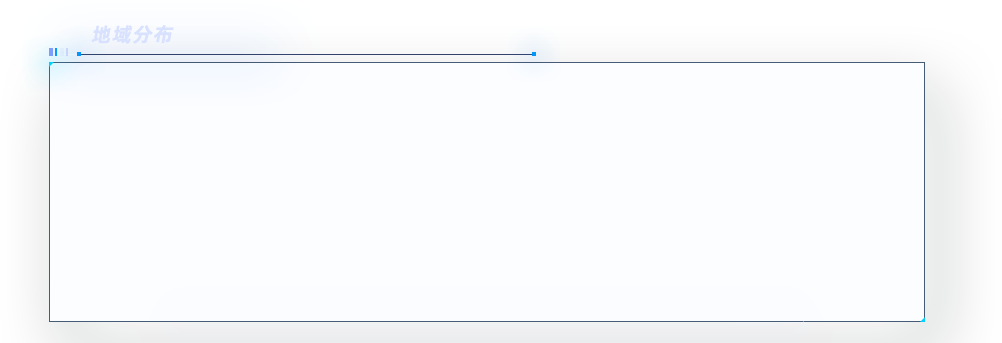
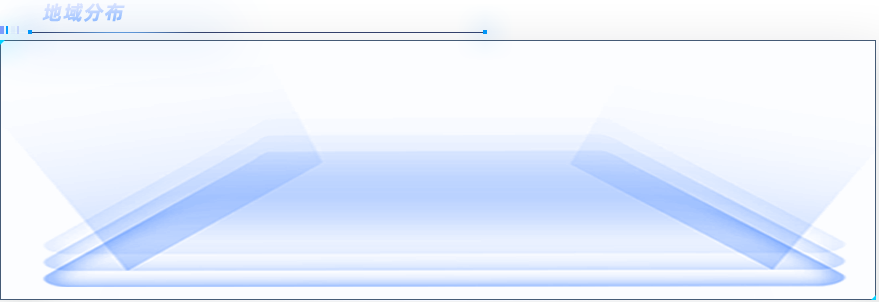
交付经理集成完成，地域分布 部分完成

Changed region(s): [[0.0307, 0.447, 0.9829, 0.9536], [0.0, 0.0, 1.0, 0.2086], [0.0, 0.9834, 1.0, 1.0]]

diff --git a/src/views/app/large-screen/components/largeScreen.vue b/src/views/app/large-screen/components/largeScreen.vue
@@ -22,10 +22,9 @@
         <!-- 中间地图 -->
         <el-col :xs="12" :sm="12" :md="12" :lg="12" :xl="12">
           <div class="grid-content bg-purple-light">
-            <!-- <china></china> -->
+            <china></china>
           </div>
-          <div class="grid-content bg-purple-chart">
-            <span>图表</span>
+          <div class="grid-content bg-purple-chart region">
           </div>
         </el-col>
         <!-- 右侧内容 -->
@@ -35,13 +34,12 @@
             <age-com class="ageCount" :aName="workName" :aValue="workValue" ref="work"></age-com>
           </div>
           <!-- 右侧中  客户分布-->
-          <div class="grid-content guestDepartment bg-purple">
-            <radarchart> </radarchart>
+          <div class="grid-content bg-purple client">
+            <radarchart class="ageCount"></radarchart>
           </div>
-          <!-- 右侧下 -->
-          <div class="grid-content bg-purple cakeBackground">
-            <!-- 3D饼图 -->
-            <delivery-manager></delivery-manager>
+          <!-- 右侧下 交付经理-->
+          <div class="grid-content bg-purple deliver">
+            <delivery-manager class="ageCount"></delivery-manager>
           </div>
         </el-col>
       </el-row>
@@ -106,8 +104,8 @@ export default {
             let name = String(item.birthdayYear).substr(2, 1) + "0后";
             dataArr[name] = dataArr[name] ? dataArr[name] + item.num : item.num;
           });
-          this.ageName=Object.keys(dataArr).reverse()
-          this.ageValue=Object.values(dataArr).reverse()
+          this.ageName = Object.keys(dataArr).reverse();
+          this.ageValue = Object.values(dataArr).reverse();
           // this.ageValue=this.ageFirst(Object.values(dataArr)).reverse()
           this.$nextTick(() => {
         this.$refs.age.start(); // 调用 ECharts 组件的初始化方法
@@ -118,25 +116,32 @@ export default {
     workAge(data){
       employeeSeniority(data).then(res=>{
         if (res && res.code && res.code === "00000") {
-          let workData={'1年以下':0,'1-2年':0,'2-3年':0,'3-4年':0,'4-5年':0,'5年以上':0}
-          res.data.forEach(item=>{
-            if(item.seniority==0){
-              workData['1年以下']+=item.num
+          let workData = {
+            "1年以下": 0,
+            "1-2年": 0,
+            "2-3年": 0,
+            "3-4年": 0,
+            "4-5年": 0,
+            "5年以上": 0,
+          };
+          res.data.forEach((item) => {
+            if (item.seniority == 0) {
+              workData["1年以下"] += item.num;
             }
-            if(item.seniority==1){
-              workData['1-2年']+=item.num
+            if (item.seniority == 1) {
+              workData["1-2年"] += item.num;
             }
-            if(item.seniority==2){
-              workData['2-3年']+=item.num
+            if (item.seniority == 2) {
+              workData["2-3年"] += item.num;
             }
-            if(item.seniority==3){
-              workData['3-4年']+=item.num
+            if (item.seniority == 3) {
+              workData["3-4年"] += item.num;
             }
-            if(item.seniority==4){
-              workData['4-5年']+=item.num
+            if (item.seniority == 4) {
+              workData["4-5年"] += item.num;
             }
-            if(item.seniority>=5){
-              workData['5年以上']+=item.num
+            if (item.seniority >= 5) {
+              workData["5年以上"] += item.num;
             }
 
           })
@@ -174,8 +179,6 @@ export default {
   },
 };
 </script>
-<style lang='less'>
-</style>
 <style lang='less' scoped>
 body,
 html {
@@ -188,17 +191,6 @@ html {
   position:absolute .el-col {
     border-radius: 4px;
   }
-  .bg-purple-dark {
-    // background: #99a9bf;
-  }
-  .bg-purple {
-    // background: #d3dce6;
-  }
-  .bg-purple-light {
-    // background: #e5e9f2;
-    // position: relative;
-    // top: -30px;
-  }
   .grid-content {
     border-radius: 4px;
     min-height: 36px;
@@ -209,7 +201,7 @@ html {
   // 两侧
   .bg-purple {
     width: 100%;
-    height: 28vh;
+    height: 270px;
     // // background-color: rgba(224, 236, 211, 0.2);
     margin: 5px 0;
   }
@@ -221,8 +213,9 @@ html {
   .bg-purple-chart {
     margin-top: 6px;
     width: 100%;
-    height: 25vh;
+    height: 255px;
     // background-color: rgba(224, 236, 211, 0.2);
+    padding-top: 2px;
   }
   .ageCom {
     background-image: url("./images/uihomepage/age.png");
@@ -231,12 +224,30 @@ html {
     display: flex;
     justify-content: center;
   }
-  .workCom{
+  .workCom {
     background-image: url("./images/uihomepage/work.png");
     background-size: contain;
     background-repeat: no-repeat;
     display: flex;
     justify-content: center;
+  }
+  .client {
+    background-image: url("./images/uihomepage/客户分布-背景框.png");
+    background-size: contain;
+    background-repeat: no-repeat;
+    display: flex;
+    justify-content: center;
+  }
+  .deliver {
+    background-image: url("./images/uihomepage/交付经理人数分析-背景框.png");
+    background-size: contain;
+    background-repeat: no-repeat;
+    display: flex;
+    justify-content: center;
+  }
+  .region {
+    background: url(./images/uihomepage/地域分布-背景框.png) no-repeat center;
+    background-size: 100% 100%;
   }
   .ageCount {
     width: 90%;

diff --git a/src/views/Home.vue b/src/views/Home.vue
@@ -87,6 +87,7 @@
                       style="cursor: pointer"
                       src="../assets/img/uihomepage/home.png"
                       alt=""
+                      @click="jumpHomepage"
                     />
                     <img
                       style="cursor: pointer"
@@ -365,6 +366,10 @@ export default {
     this.nowMenu = this.$route.path;
   },
   methods: {
+    // 跳转首页
+    jumpHomepage() {
+      this.$router.push("/sys/firstscreen");
+    },
     //  生成菜单跳转
     handleOpen(key, keyPath) {
       console.log(key, keyPath);
@@ -392,7 +397,6 @@ export default {
 };
 </script>
 <style lang='less'>
-
 .el-scrollbar {
   // background-color: #1d2e5d !important;
   background-color: transparent !important;
@@ -521,7 +525,7 @@ body .el-main {
 }
 .el-card__body,
 .el-main {
-  padding: 10px 10px 0;
+  padding: 0 10px 0;
 }
 // 背景
 .box {

diff --git a/src/views/app/large-screen/components/china-map.vue b/src/views/app/large-screen/components/china-map.vue
@@ -10,9 +10,7 @@
 import "echarts/extension/bmap/bmap";
 import * as echarts from "echarts";
 export default {
-  components: {
-
-  },
+  components: {},
   data() {
     return {
       map: null,
@@ -477,6 +475,7 @@ export default {
             {
               featureType: "railway",
               elementType: "all",
+              // 指定要显示的元素类型：
               stylers: {
                 visibility: "off",
               },
@@ -602,7 +601,6 @@ export default {
           },
           itemStyle: {
             color: "#ddb926",
-            
           },
           emphasis: {
             label: {
@@ -662,7 +660,7 @@ export default {
   mounted() {
     // this.initMap()
   },
-  
+
   methods: {
     initMap({ BMap, map }) {
       console.log(BMap, map);

diff --git a/src/views/app/large-screen/components/radar-chart.vue b/src/views/app/large-screen/components/radar-chart.vue
@@ -1,6 +1,6 @@
 <template>
   <div class="contain">
-    <div id="myChart" style="width: 100%; height: 25vh"></div>
+    <div id="myChart" style="width: 100%; height: 23vh"></div>
   </div>
 </template>
   
@@ -126,13 +126,6 @@ export default {
 </script>
   
 <style lang="less" scoped>
-.contain {
-  background-image: url("./images/uihomepage/客户分布-背景框.png");
-  background-size: contain;
-  background-repeat: no-repeat;
-  display: flex;
-  justify-content: center;
-  padding-top: 8%;
-}
+
 </style>
   

diff --git a/src/api/largeScreen/index.js b/src/api/largeScreen/index.js
@@ -21,5 +21,12 @@ const guestDepartment = (data) =>
     url: BaseURL + "/app/reportForm/employeeCustomer",
     data,
   });
+// 地域分析
+const regionalAnalysis = (data) =>
+  Request({
+    method: "post",
+    url: BaseURL + "/app/reportForm/regionAnalysis",
+    data,
+  });
 
-export { employeeAge, employeeSeniority, guestDepartment };
+export { employeeAge, employeeSeniority, guestDepartment,regionalAnalysis };

diff --git a/src/views/app/large-screen/components/delivery-manager.vue b/src/views/app/large-screen/components/delivery-manager.vue
@@ -67,12 +67,5 @@ export default {
 </script>
   
 <style lang="less" scoped>
-.contain {
-  background-image: url("./images/uihomepage/交付经理人数分析-背景框.png");
-  background-size: contain;
-  background-repeat: no-repeat;
-  display: flex;
-  justify-content: center;
-  padding-top: 10%;
-}
+
 </style>

diff --git a/src/router/index.js b/src/router/index.js
@@ -161,6 +161,7 @@ const routes = [
       // },
     ],
   },
+
 ];
 
 const router = new VueRouter({
